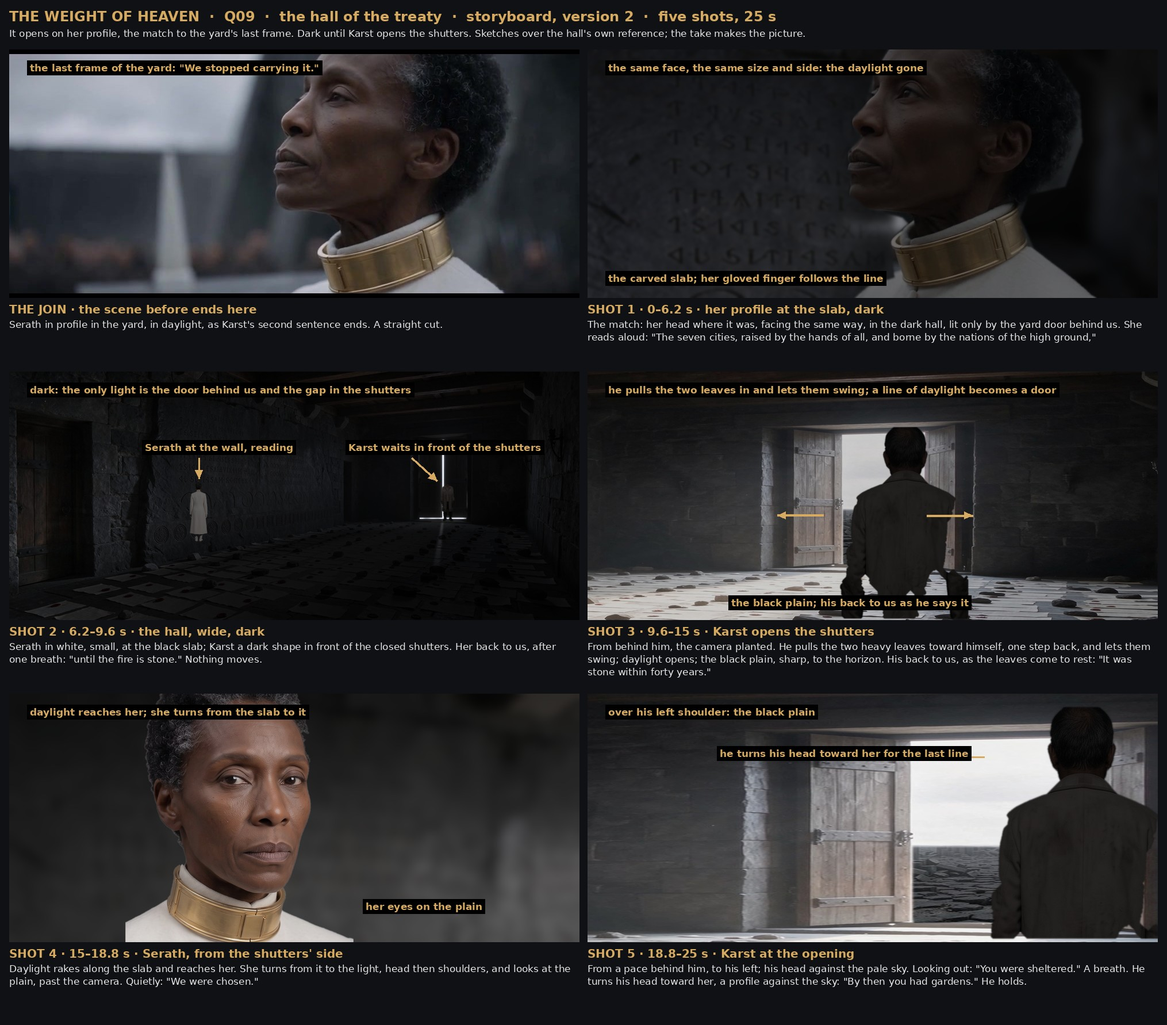
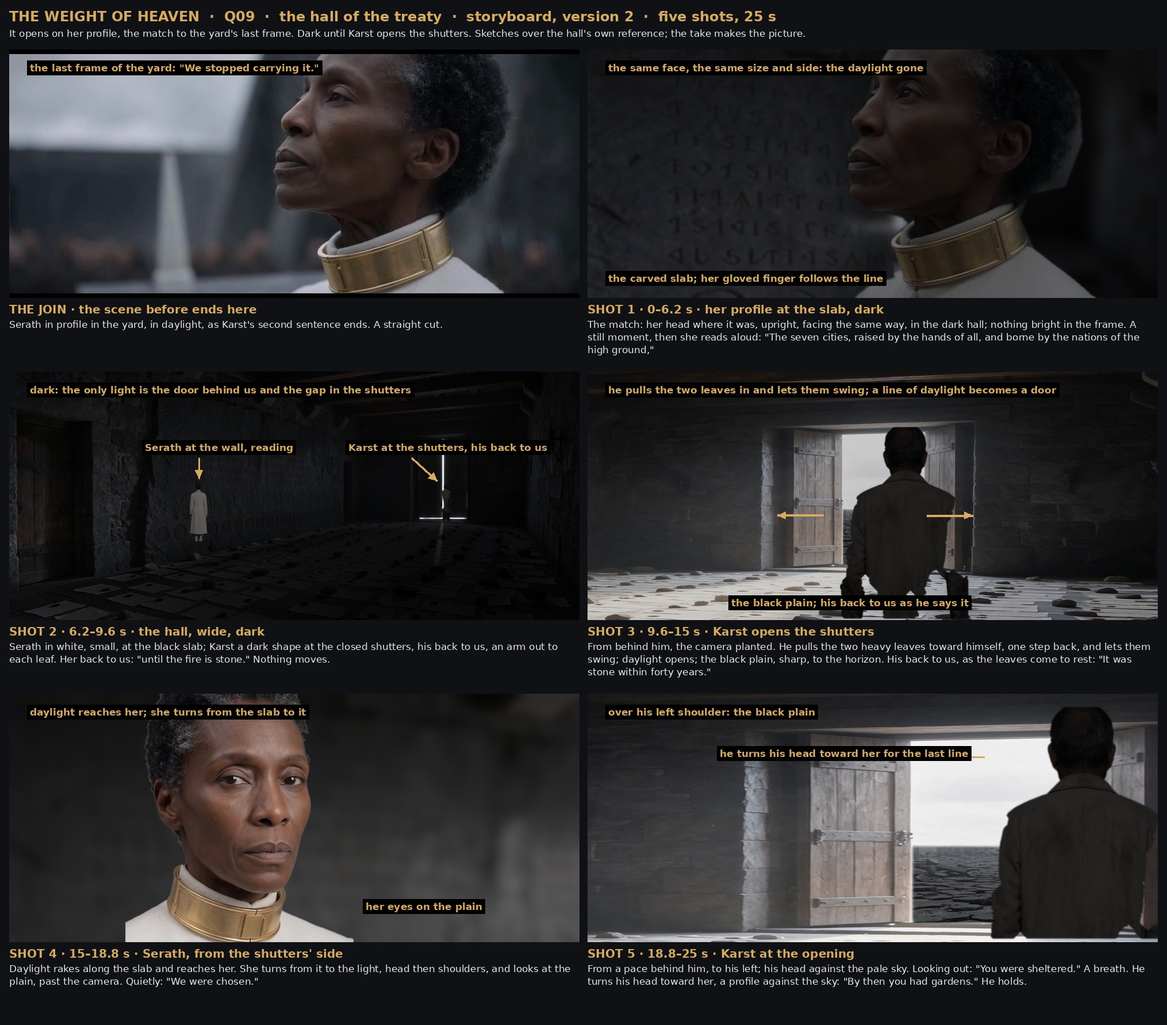
The Weight of Heaven: Q09 version 2 after the follow-up review; package notes brought up to date
Karst in the wide stands as the next shot finds him; nothing bright behind her in the opening profile; her head
placed from measurements of the yard's last frame; a still moment before she reads. Nothing generated.

Claude-Session: https://claude.ai/code/session_01Ufmw2p65L6HH4goCKZmAJH

diff --git a/ai-film/the-weight-of-heaven/tools/board_q09.py b/ai-film/the-weight-of-heaven/tools/board_q09.py
@@ -68,11 +68,11 @@ def main():
     # 1. the wide, dark
     a = part(DARK, (0.0, 0.0, 1.0, 1.0), (W, H))
     a = b4.over(a, dark(ser_back, 0.42), cx=330, foot=296, height=104, soft=0.4)
-    a = b4.over(a, dark(kar_front, 0.20), cx=754, foot=262, height=66, soft=0.5)
+    a = b4.over(a, dark(kar_back, 0.20), cx=754, foot=262, height=66, soft=0.5)
     c1 = img(a); d = ImageDraw.Draw(c1)
     note(d, (36, 22), 'dark: the only light is the door behind us and the gap in the shutters')
     arrow(d, (330, 150), (330, 186), w=3); note(d, (236, 122), 'Serath at the wall, reading')
-    arrow(d, (700, 150), (744, 190), w=3); note(d, (590, 122), 'Karst waits in front of the shutters')
+    arrow(d, (700, 150), (744, 190), w=3); note(d, (590, 122), 'Karst at the shutters, his back to us')
     # (version 1's shot 2: her profile facing right; kept for shot 4's set-up only)
     wall = b4.blur(part(DARK, (0.27, 0.10, 0.47, 0.50), (W, H)), 2.5) * 1.5
     glow = np.zeros((H, W), np.float32); glow[120:330, 0:150] = 1; glow = ndimage.gaussian_filter(glow, 70)
@@ -122,9 +122,9 @@ def main():
         (cj, 'THE JOIN · the scene before ends here',
          'Serath in profile in the yard, in daylight, as Karst\'s second sentence ends. A straight cut.'),
         (cm, 'SHOT 1 · 0–6.2 s · her profile at the slab, dark',
-         'The match: her head where it was, facing the same way, in the dark hall, lit only by the yard door behind us. She reads aloud: "The seven cities, raised by the hands of all, and borne by the nations of the high ground,"'),
+         'The match: her head where it was, upright, facing the same way, in the dark hall; nothing bright in the frame. A still moment, then she reads aloud: "The seven cities, raised by the hands of all, and borne by the nations of the high ground,"'),
         (c1, 'SHOT 2 · 6.2–9.6 s · the hall, wide, dark',
-         'Serath in white, small, at the black slab; Karst a dark shape in front of the closed shutters. Her back to us, after one breath: "until the fire is stone." Nothing moves.'),
+         'Serath in white, small, at the black slab; Karst a dark shape at the closed shutters, his back to us, an arm out to each leaf. Her back to us: "until the fire is stone." Nothing moves.'),
         (c3, 'SHOT 3 · 9.6–15 s · Karst opens the shutters',
          'From behind him, the camera planted. He pulls the two heavy leaves toward himself, one step back, and lets them swing; daylight opens; the black plain, sharp, to the horizon. His back to us, as the leaves come to rest: "It was stone within forty years."'),
         (c4, 'SHOT 4 · 15–18.8 s · Serath, from the shutters\' side',

diff --git a/ai-film/the-weight-of-heaven/prompts/Q09.md b/ai-film/the-weight-of-heaven/prompts/Q09.md
@@ -1,6 +1,6 @@
 # Q09 — The hall: the treaty · "It was stone within forty years" (B16, B17)
 
-**v1 · images only, the author's AUTEUR VIDEO PROMPT as it will be sent.** Seedance 2.5 on fal, task `reference`, 21:9, 480p, sound on. Scene 7 of the screenplay, its opening: lines L14 to L17. **Status: package built on the author's word (27 November): "Yes" to "I'll put together the package for the first take"; revised after an independent review (`edit/reviews/Q09_v1_prompt_review.md`, twelve findings, all but one taken). Nothing generated. Waiting for the author's go.**
+**v2 · images only, the author's AUTEUR VIDEO PROMPT as it will be sent.** Seedance 2.5 on fal, task `reference`, 21:9, 480p, sound on. Scene 7 of the screenplay, its opening: lines L14 to L17. **Status: package built on the author's word (27 November): "Yes" to "I'll put together the package for the first take"; revised after an independent review (`edit/reviews/Q09_v1_prompt_review.md`, twelve findings, all but one taken); then, on the author's question "How do it connect with previous scene", re-ordered as version 2 so that it opens on the match to the yard's last frame, and re-checked by the same reviewer (six more points, all taken). Nothing generated. Waiting for the author's go.**
 
 Q09 follows the arrival (Q08, in cut v20 as the normal edit under the song) and is the first of the hall's five takes (Q09 to Q13).
 
@@ -8,8 +8,9 @@ Q09 follows the arrival (Q08, in cut v20 as the normal edit under the song) and 
 
 | What | Where |
 | --- | --- |
-| The prompt, exactly as it will be sent | `prompts/sent/Q09_v1.txt` |
-| Storyboard, five frames | `design/boards/Q09_board.jpg` (`tools/board_q09.py`) |
+| The prompt, exactly as it will be sent | `prompts/sent/Q09_v2.txt` (version 1, before the join was asked about: `prompts/sent/Q09_v1.txt`) |
+| Storyboard: the join, then five frames | `design/boards/Q09_board_v2.jpg` (`tools/board_q09.py`; version 1: `design/boards/Q09_board.jpg`) |
+| The last frame of the scene before, as it stands in cut v20 | `refs/frames/Q09_join_q08_last.jpg` (for the board and the edit; not sent to the model) |
 | The four references, in attach order | `design/boards/Q09_refs.jpg` |
 | The hall with its shutters closed (made here, free) | `refs/relit/ENV_E09_treaty-house-hall_dark.jpg` (`tools/plate_e09_dark.py`) |
 | The hall with the black plain outside (made here, free) | `refs/relit/ENV_E09_treaty-house-hall_plain.jpg` (`tools/plate_e09_plain.py`) |
@@ -27,24 +28,30 @@ Q09 follows the arrival (Q08, in cut v20 as the normal edit under the song) and 
 
 **Two things differ from the cut plan, and they are the author's to refuse.** The treaty is read whole, and L16 and L17 are back. With only "until the fire is stone", nobody watching knows what was to end, and Karst's answer hangs as his line in the yard did (lesson 138; the author, 27 November: "that dialogue feels so weird and nonsense... there is no dialogue to even introduce"). "We were chosen." / "You were sheltered. By then you had gardens." is the scene's argument in eleven words, and "gardens" answers the song's "gardens we have never seen", heard half a minute before. They cost about eight seconds ($1.76). Without them the take would be 17 s, as the shot list had it.
 
-40 words: Serath 26 (nine with her back to us, fourteen in a profile edged with light, three almost full face), Karst 14 (six with his back to us, three from behind him, five in profile against the sky). Only "We were chosen." is on a lit face.
+40 words: Serath 26 (eighteen on her profile, dim but readable; five with her back to us; three almost full face in daylight), Karst 14 (six with his back to us, three from behind him, five in profile against the sky).
 
 ## The shots (25 s, 5 shots)
 
 | Shot | Time | Picture | Line |
 | --- | --- | --- | --- |
-| 1 | 0–3.8 s | The hall, wide and dark, as its reference sees it. Serath, small and white, at the black slab, her gloved hand on its marks; Karst a dark shape in front of the closed shutters and their line of daylight | Serath, her back to us: "The seven cities, raised by the hands of all," |
-| 2 | 3.8–9.6 s | Her profile close to the rock, lit only from behind, the near side of her face dim but readable; her forefinger follows the carved marks and stops | "and borne by the nations of the high ground," … "until the fire is stone." |
+| 1 | 0–6.2 s | Her profile at the slab, in the dark: the same head, the same size and side as the yard's last frame. Lit only by the yard door behind the camera; nothing bright in the frame. A still moment, then her gloved forefinger follows the carved marks | "The seven cities, raised by the hands of all, and borne by the nations of the high ground," |
+| 2 | 6.2–9.6 s | The hall, wide and dark, as its reference sees it. Serath small and white at the black slab; Karst a dark shape at the closed shutters, his back to us, in front of their line of daylight | Serath, her back to us: "until the fire is stone." |
 | 3 | 9.6–15 s | From behind Karst, centred, the camera planted: he pulls the two leaves toward himself, steps back once and lets them swing; a line of daylight becomes a door; the black plain, sharp, to the horizon. He speaks as the leaves come to rest | Karst, his back to us: "It was stone within forty years." |
-| 4 | 15–18.8 s | Serath, the same close view, the daylight now raking along the wall. She turns from it to the light, head then shoulders, almost full face, her eyes on the plain past the camera | "We were chosen." |
+| 4 | 15–18.8 s | Serath from the shutters' side, the daylight raking along the slab. She turns from it to the light, head then shoulders, almost full face, her eyes on the plain past the camera | "We were chosen." |
 | 5 | 18.8–25 s | From a pace behind Karst and to his left, his head against the pale sky. He speaks toward the plain, then turns his head to her: a profile against the sky; a second of hold after the last line | "You were sheltered." … "By then you had gardens." |
+
+## How it joins the scene before
+
+The author, 27 November, on version 1: "How do it connect with previous scene". It did not: the yard ends, in cut v20, on Serath's profile in daylight as Karst's second sentence ends, and version 1 cut from there to a dark wide with her already at the wall. No shared image, which is how the author joins scenes (Q06 opens on Q05's last frame; Q08 was to continue from Q07's).
+
+Version 2 opens on the match: her profile, facing left, her head where the yard's last frame has it (the tip of her nose on the centre line, her chin two thirds of the way down, the collar at the bottom edge), upright, in the dark of the hall, the carved slab where the yard's sky was. A straight cut: the same face, the daylight gone. The yard's frame is not attached to the take, because a "framing only" reference comes back as the whole earlier picture (Q06's seal) and a take wears the light of its first image; the placing is written out, and the edit can register the two heads by a small scale and shift, as it did for Q05 into Q06. Sound: the yard's wind stops on the cut; the hall is still for two thirds of a second before she reads.
 
 ## Why it is staged this way
 
 - **The room is dark until he opens it.** The screenplay: "Dark." Then "Karst shoulders the shutters open. Daylight. The black plain." The whole beat is one change of light, so it is given a cause (he pulls), an effect (the blade of day becomes a door) and an answer (the plain), each in its turn. The hall's reference shows the room after the shutters are open, and the model takes its light from the reference more than from words (lesson 41), so the dark state is made as a picture of the same room.
 - **His line is timed to what is revealed.** The voice bible: "Timed to the shutters opening on the plain." He says it to the plain, his back to us, as the leaves come to rest: the stone he is talking about is what we are looking at, and it is sharp. No lips to match.
-- **She reads with her back to us, then in a profile that is almost a shadow.** A long archaic sentence on a lit face is where this model rushes or slurs (the Hierophant in Q04). Here nine of its words fall on a wide where her face is not seen, and the rest on a profile edged with light. The sentence is split at its comma across the cut.
-- **The daylight finds her before she answers.** Shot 4 is shot 2's frame with the light changed: the same face, the same wall, now seen. Her three words are the only ones in the take said toward the camera.
+- **She reads on her profile, and the last words fall on the wide.** Eighteen words on a dim, readable face in one shot; then one breath, the cut, and "until the fire is stone" with her back to us, small before the whole slab, Karst already at the shutters: the words that matter are laid over the picture of what they are about to open. One break in the sentence, at a breath. (Version 1 kept every reading word off a lit face; the join costs that.)
+- **The daylight finds her before she answers.** Shot 4 is the reverse of shot 1, from the shutters' side: the same face at the same slab, now in daylight, and she turns from the rock to the light. Her three words are the only ones in the take said toward the camera.
 - **He turns to her only for the last line.** "You were sheltered" is said to the plain; "By then you had gardens" to her, more quietly (the voice bible: when something matters most he gets quieter).
 - **Nothing of the screenplay's that would look staged is in it.** Nobody walks in, nobody points, and the seals at the wall's foot are in the wide but are not explained: seven and eleven are for Q13, where she counts them. The papers on the floor are not looked at; they are Q10.
 - **No first frame was generated.** Both hall images are the approved reference, changed here by hand; the people come from their sheets (lesson 136).
@@ -55,10 +62,10 @@ Studied again from the frames on hand (StillsLab: Dune: Part One and Part Two, B
 
 | What recurs | In Q09 |
 | --- | --- |
-| One small pale figure in a vast dark room, most of the frame near black, one far light | Shot 1 |
-| A blade or a slot of daylight in a dark wall, a figure beside it | Shot 1 (the shutters' gap), shot 3 |
-| A profile dark against a paler ground; a face just above black, lit from one side | Shot 2 |
-| A figure before a carved wall that fills the frame | Shots 2 and 4 |
+| One small pale figure in a vast dark room, most of the frame near black, one far light | Shot 2 |
+| A blade or a slot of daylight in a dark wall, a figure beside it | Shot 2 (the shutters' gap), shot 3 |
+| A face just above black, lit from one side | Shot 1 |
+| A figure before a carved wall that fills the frame | Shots 1 and 4 |
 | People as shapes in a bright opening | Shot 3 |
 | The listener's face as the light reaches it | Shot 4 |
 | A back and a shoulder at a window, the view beyond | Shot 5 |
@@ -81,6 +88,8 @@ A reader with no part in the draft read the prompt, the four references at full 
 | Words of the spoken lines stood in the directions ("stone" six times, "seven", "hands", "ground", "years") | Out, by the review's own replacements (checked by script: what is left is in the two voice paragraphs, as sent before) |
 | Things that would be drawn: "a kingdom that floats in the sky" with a large sky in two shots; "blade"; "shaft" and "dust" against "no sunbeams"; an influence no shot stages | Reworded or taken out; the sky is "plain pale overcast with nothing in it" |
 | Karst in the wide, "just right of the shutters", would be invisible against the darkest wall | He stands in front of the shutters, hiding the lower part of the line of daylight: where shot 3 finds him |
+
+The follow-up on version 2 (the same reviewer, on the changed parts only; "would I send it: yes, after items 1 to 4"), all taken: Karst in the wide stands as shot 3 finds him, his back to us, an arm out to each leaf (in version 1 a close-up lay between the two); nothing bright stands behind her in shot 1, where the line of daylight could have landed against her lips or read as a slit in the treaty wall; her head is placed in the frame by measurement from the yard's last frame; a still, silent head for the first two thirds of a second and a closed mouth after the phrase, so that she does not run on into the last words; the light on her face given a side.
 
 Not taken: painting the iron brackets out of the reference. They are part of the approved hall (lesson 127: open the design before removing a "fault"), so they are locked instead: "The iron brackets on the walls are empty and cold."
 
@@ -107,7 +116,7 @@ No video and no audio reference.
 ## Parameters and cost
 
 ```
-python3 tools/fal_run.py --name Q09_t1 --prompt prompts/sent/Q09_v1.txt \
+python3 tools/fal_run.py --name Q09_t1 --prompt prompts/sent/Q09_v2.txt \
   --image refs/relit/ENV_E09_treaty-house-hall_dark.jpg --image refs/relit/ENV_E09_treaty-house-hall_plain.jpg \
   --image refs/CHAR_C01_serath.jpg --image refs/CHAR_C02_karst.jpg \
   --param task=reference --param duration=25 --param aspect_ratio=21:9 --param draft=true \
@@ -121,8 +130,9 @@ python3 tools/fal_run.py --name Q09_t1 --prompt prompts/sent/Q09_v1.txt \
 | Risk | What protects against it |
 | --- | --- |
 | The whole take comes back lit, as the open-shutter reference is, or shot 3 cuts straight to an open doorway (a change of light inside a shot has never been asked of this model) | The dark state is its own reference and is named for the start of shot 3; "The light changes once, inside shot 3"; "the shutters shut until 9.6 s and open from 12.4 s". If it fails, shots 1 and 2 can be graded down in the edit; a shot 3 that begins open cannot be mended and would need a pickup of that shot alone (about $1.20) |
-| The reading is rushed, slurred or changed (27 syllables of old-fashioned English) | It is split at its comma between a wide and a profile, with windows of 3.0, 2.7 and 1.9 s; no lit lips. Off-lip words can be replaced in sound |
-| The sentence restarts at the cut, or the comma becomes a full stop | Written as two lines by one speaker in order; "each quoted line is spoken once" |
+| The reading is rushed, slurred or changed (27 syllables of old-fashioned English) | Twenty-one syllables in 5.0 s on a dim profile, slower than she has spoken before; the last six after a breath, with her back to us, where they can be moved or replaced in sound. If the first phrase comes back wrong on her lips it cannot be mended and the shot would need a pickup (about $1.40) |
+| She runs on into the last words in shot 1, or begins the sentence again in the wide | "her mouth closes and stays closed to the cut"; "The two phrases of Serath's reading are one sentence ... never begun again"; in the wide a repeat is on her back and can be cut |
+| The opening profile does not match the yard's last frame closely enough | Its size and place are written from measurements of that frame; the edit registers the rest by a small scale and shift |
 | Karst's voice or Serath's differs from the film's | See Voices |
 | The papers on the floor draw the eye in the wide, before Q10 shows them | They are in the reference and will be there; in the dark reference they are now a stop under her coat, and they are out of the frame in every lit shot. Nobody looks at them |
 | The shutters open outward, or one leaf only | "he pulls both leaves toward himself"; the open state is @Image 2 |

diff --git a/ai-film/the-weight-of-heaven/edit/reviews/Q09_v1_prompt_review.md b/ai-film/the-weight-of-heaven/edit/reviews/Q09_v1_prompt_review.md
@@ -132,3 +132,35 @@ Replace with: "Karst, smaller still, stands at the far end in front of the close
 - The sheets match their descriptions; "ink on his fingers" stays neutral between the sheet (left) and the shot list (right).
 
 Not checked: any sound; whether the endpoint accepts 25 s. The geometry is worked from the plates' horizon with the camera at the prompt's chest height (1.3 m); at eye height every distance is a quarter larger and no conclusion changes. The likelihoods given are a reader's estimates, not measurements.
+
+## Version 2 (the match cut): follow-up
+
+27 November, the same reader. Re-checked only what changed: `prompts/sent/Q09_v2.txt` against v1 by diff, the join frame `refs/frames/Q09_join_q08_last.jpg` (measured), the board `design/boards/Q09_board_v2.jpg`, the revised dark plate. Nothing generated; no file changed but this one.
+
+1. **The reorder leaves Karst facing two ways on consecutive frames.** Shot 2 ends on "Karst, smaller still, stands at the far end in front of the closed shutters, at their middle: a dark shape that hides the lower part of the line of daylight, facing her, his arms at his sides." and "Karst is still and watches her. After her last word nothing moves." Shot 3 begins, one frame later, "his back to us, at the closed shutters … He grips the inner edge of each leaf." In v1 a close-up of her lay between the two. At about 78 px high in the dark his facing cannot be read, so put him as shot 3 finds him.
+   Replace in shot 2 [BLOCK]: "Karst, smaller still, stands at the far end at the closed shutters, at their middle, his back to us, an arm out to each leaf: a dark shape that hides the lower part of the line of daylight." In [ACT]: "Karst is still, his back to us."
+
+2. **Shot 1 names the line of daylight where it cannot be, and leaves Karst free to stand behind her.** The words: [CAM] "Behind her, far off and out of focus, the dark far end of the hall and the thin line of daylight between the shutters."; [ACT] "nothing in the frame is bright but the far thread of daylight"; MOVIE COLOR "and the line of daylight between the shutters is a soft thread far behind her".
+   Why: from a camera beside the slab looking down the hall, the shutters are about 21° to the right of the lens (the middle of the end wall, some 7 m off); an 85 mm frame reaches 18°. The line is behind the back of her head or off the right edge, never left of her face. Unpinned, the one bright thing can land between her face and the slab: against her lips, and reading as a slit in the treaty wall. Karst stands in front of that line by the lock, so a soft dark man can come with it into the scene's first frame (the author on Q08: "why is that guy at the back of that place?"). The cut says "the daylight gone" best with nothing bright, and the line is then first seen in shot 2, where it is "the one bright thing in the frame".
+   Replace: [CAM], last sentence, "Behind her, out of focus, only the dark of the hall." · [BLOCK] begins "Serath alone in the frame," · [ACT] "…a little brighter than the hall beyond her; nothing in the frame is bright." · MOVIE COLOR "In shot 1 the weak grey daylight of the yard door, behind the camera, is the only light, and nothing in the frame is bright; in shot 2 the thin line of daylight between the shutters is the one bright thing in the frame."
+   The rest of shot 1's geometry is right: camera on the yard-door side looking toward the far end puts the slab on the left and shows her left side, facing left. "Away from us" is the wide's "to the right" (toward the shutters).
+
+3. **The match: size and side are right; the place across the frame and her posture are left open.** Measured in the join frame (992 × 432, picture rows 8 to 423): the tip of her nose at 48 % of the width, the back of her hair at about 88 %, her hair cut by the top edge, her chin at about 63 % of the height, the collar's lower rim on the bottom edge, her head upright. "from just above her hair to the gold collar at the lower edge of the frame" gives the same size (head about 65 % of the frame's height in both). "on the right half of the frame" does not say where. Two phrases work against the upright head: "her face a forearm's length from the rock" (a lean toward the slab; the lock says "an arm's length") and, in shot 2, "at the height of her shoulder" (a line read there drops her eyes and head). With no frame attached expect 10 to 15 % of error in size and place (88: even an attached first frame came back re-framed); a scale and a shift cover that when the incoming shot is the looser of the two.
+   Replace shot 1 [BLOCK] with: "Serath alone in the frame, in profile, facing left, toward the slab, upright, her head level. Her head is large: the top of her hair just inside the top edge of the frame, the tip of her nose on the centre line of the frame, the back of her head a little way in from the right edge, her chin two thirds of the way down the frame, the whole gold collar inside the frame with its lower rim just above the bottom edge. Her face is an arm's length from the rock. On the left half, her right hand in its white glove, the forefinger under a line of carved marks at the height of her eyes." In shot 2: "at the height of her shoulder" → "at the height of her eyes".
+   Not attaching the yard frame is right. A set-up frame comes back whole, with its light and background (94, 105), and a take wears the light of its first image (44, 136): it would bring the yard's sky and crowd into the hall's first shot. A darkened hand-made copy of it is ruled out by 136.
+
+4. **Speech: better than version 1's split, with one risk grown, dead air at the end of shot 1.**
+   - Better: one break, not two, and it falls at a breath. The 21 syllables that must match lips are on one face in one shot. The last phrase is on a small back, so if it comes early, late or twice, the edit moves the picture cut under continuous sound or drops the repeat. No pressure to rush: 21 syllables in 5.0 s is 4.2 a second against her measured 5.3 and 6.2 (Q05). "until the fire is stone." has 2.0 s for 6 or 7 syllables: right for "slower".
+   - Grown: at her measured pace she is done by about 4.1 to 4.7 s, with 1.5 to 2.1 s left on a face told only "the finger stops under the last marks of the line and she breathes in", in a shot whose line ends on a comma. The likeliest slip is that she says the last phrase there. Replace that sentence with: "By 5.7 s the finger has stopped under the last marks of the line; her mouth closes and stays closed to the cut; she breathes in once."
+   - The start: the one first-shot line measured began at 0.1 s for 0.8 (107), and this cut wants a still, silent head on the join. Before "Her forefinger moves slowly…" add: "From the first frame to 0.7 s nothing moves and her mouth is closed."
+   - Shot 2's cue, "(after her one breath; 6.9 to 8.9 s)": the breath is in shot 1 and nothing is seen in the wide (74). Replace with "(two thirds of a second after the cut; 6.9 to 8.9 s)"; Q06's "half a second after the cut" held.
+
+5. **Light: no contradiction left between the lock, MOVIE COLOR and shots 1 and 2 once item 2 is made; two leftovers.** "as dark as in shot 2" in shot 3 now points at the plate's own view, directly before it: it says the right thing. The revised plate bears out "the one pale thing in the hall" (the papers now reach level 30; the line is 9 px).
+   - Influences, "a profile edged with light against black": that was version 1's backlit profile; no shot has it now, and as a thing to show (45) it asks for a rim light against shot 1's "lit only by the weak grey daylight of the yard door, behind the camera". Replace with "a face close and dim against black rock".
+   - Shot 1's light has no shape: "the side of her face toward us is a dim grey and can be read" is light from the lens (41). The join frame has the front of her face lit and the back of her head darker. Replace the first sentence of [ACT] with: "She is lit only by the weak grey daylight of the yard door, behind the camera and to its left: it lies on her brow, cheek and mouth, a dim grey that can be read, her eye open; her hair and the back of her head fall off into the dark. Nothing in the frame is bright." (The plate was relit from "behind the camera on the left", so the two agree.)
+
+6. **Shot 4: the reverse is clear, and nothing of "the same framing" is left** (searched: no "same framing", no "same close set-up"; CONTINUITY and PRIORITY carry shot 1's placement instead). Its size also differs from shot 1's. One clause, so that the model does not carry shot 1's side over: in [BLOCK], after "facing right, toward the slab", add "so that we now see the right side of her face". The turn already begins at the first frame, so the mirrored profile is not held.
+
+7. **Nothing else broken.** No content word of a line stands in the directions outside the two voice paragraphs (by script). Six quoted phrases; AUDIO LOCKS and the header agree. The shots sum to 25.0 s. Shot 1 to shot 2 is now the same side of her (left profile, then her left shoulder and back), which v1's reverse close-up was not.
+
+**Would I send it: yes, after items 1 to 4; 5 and 6 are single phrases worth making in the same pass.** What stays untested is what was untested in version 1: a change of light inside shot 3.
